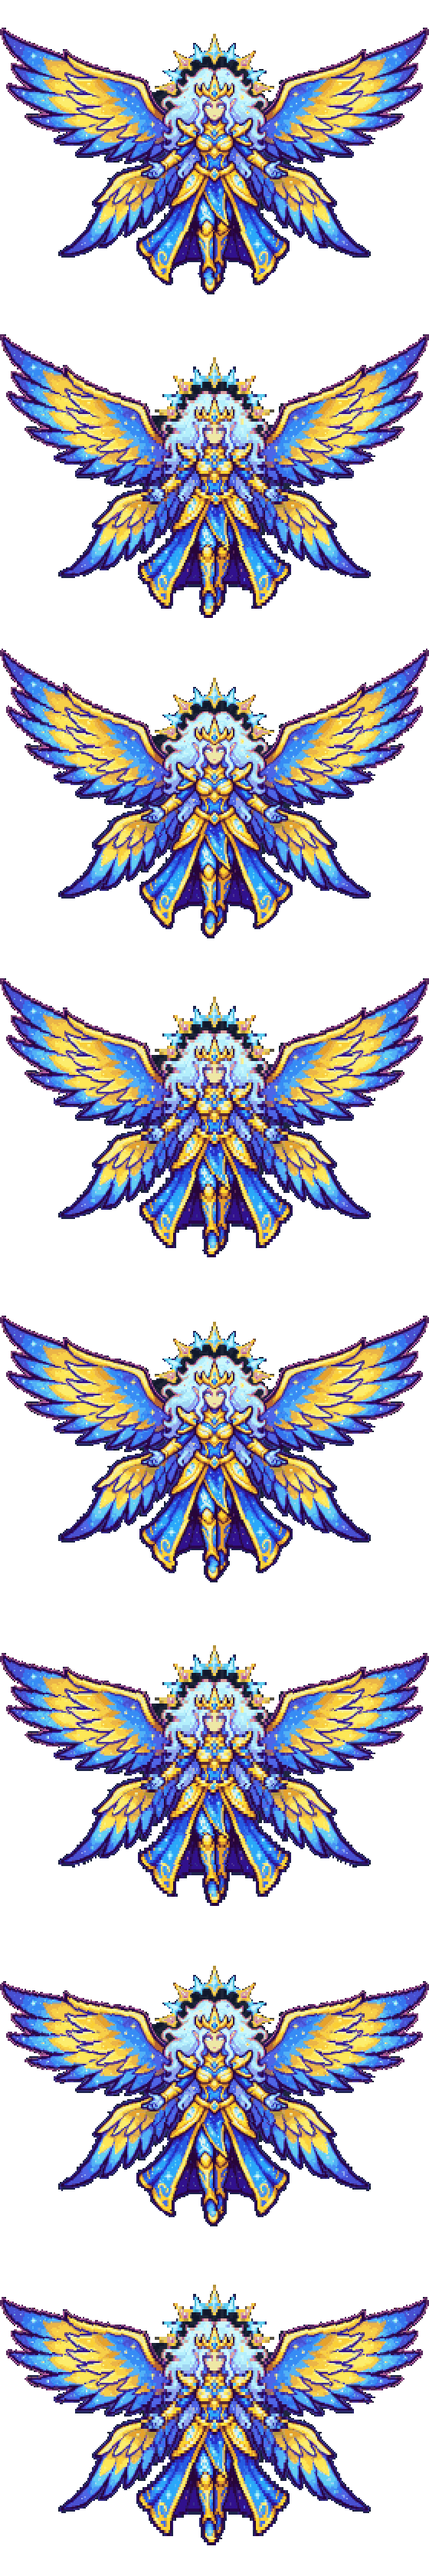
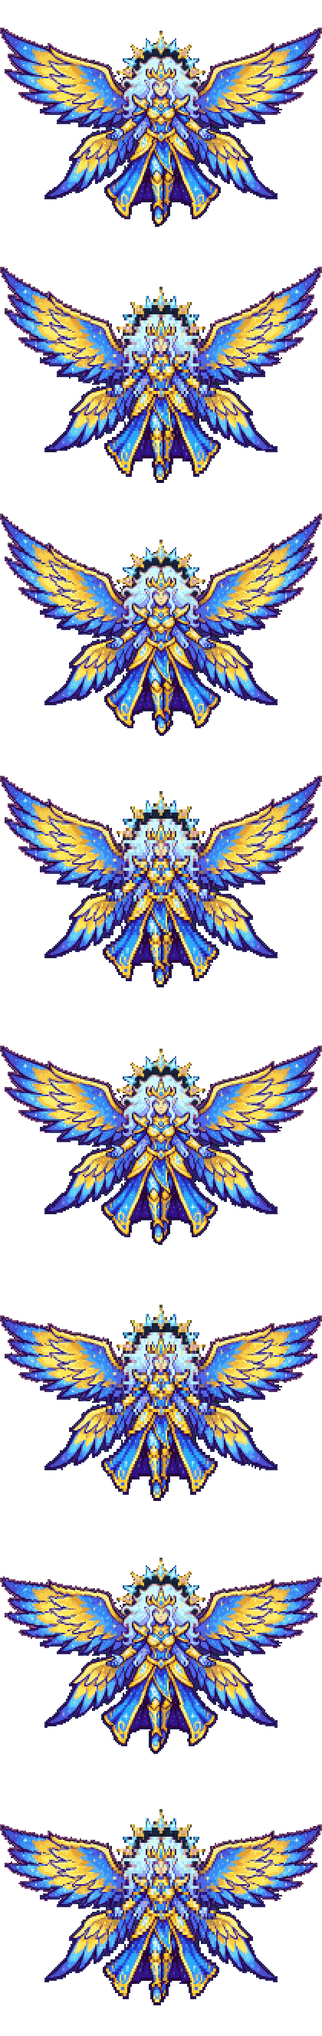
Smaller boss, remove floater above the Basket (with one-time cleanup of saved Heavens), Feather Storm attack

diff --git a/NPCs/Bosses/MotherOfTerrariaBoss.cs b/NPCs/Bosses/MotherOfTerrariaBoss.cs
@@ -20,9 +20,11 @@ namespace MotherOfTerraria.NPCs.Bosses
 	//   3. DEATH BEAM:  a thin line follows the player (the tell), then locks and a huge golden beam sweeps across.
 	//   4. FALLING STARS: seven gold stars hang high above, then drop one by one in a sweep; each leaves a burning patch
 	//                  of light on the ground, and one last star follows you.
+	//   5. FEATHER STORM: she beats her wings hard (the tell), then three spiral arms of golden feathers turn slowly one way
+	//                  and then the other.
 	//   ...then back to 1. Before each attack she moves to the next of five fixed spots around the player (see Stations): usually a slow drift, every third time a fast dash.
 	// While she is alive no other enemy may be in the Heavens (the spawner stops, and any that are left are removed).
-	// Texture: NPCs/Bosses/MotherOfTerrariaBoss.png (the owner's design, 8 frames of 560x420 made by tools/make_boss_sheet.py, Moon Lord sized: wings flap, hair and robe sway).
+	// Texture: NPCs/Bosses/MotherOfTerrariaBoss.png (the owner's design, 8 frames of 420x332 made by tools/make_boss_sheet.py, Moon Lord sized: wings flap, hair and robe sway).
 	// ALL NUMBERS BELOW ARE PLACEHOLDERS; the real balance is Phase 6.
 	// SINGLEPLAYER-ONLY: OnKill talks to the local player's Basket (see HeavenlyBasketPlayer); multiplayer needs the server to do that.
 	public class MotherOfTerrariaBoss : ModNPC
@@ -36,14 +38,14 @@ namespace MotherOfTerraria.NPCs.Bosses
 		// a slow drift, but one move in three (StationIndex divisible by 3) a fast dash with a golden after-image trail.
 		private static readonly Vector2[] Stations =
 		{
-			new Vector2(0f, -310f),      // straight above (a DASH goes here first)
-			new Vector2(-375f, -235f),   // high left
-			new Vector2(375f, -235f),    // high right
-			new Vector2(-200f, -335f),   // above, a little left
-			new Vector2(200f, -335f),    // above, a little right
+			new Vector2(0f, -235f),      // straight above (a DASH goes here first)
+			new Vector2(-280f, -175f),   // high left
+			new Vector2(280f, -175f),    // high right
+			new Vector2(-150f, -250f),   // above, a little left
+			new Vector2(150f, -250f),    // above, a little right
 		};
 		private const int StationEvery = 3;        // she moves to a new station only every this many attacks (owner: she moved too much)
-		private const float StayWithin = 80f;      // while she is this close to her station she stays put, even if the player shifts a little
+		private const float StayWithin = 60f;      // while she is this close to her station she stays put, even if the player shifts a little
 		private const float DriftSpeed = 7f;        // normal speed between attacks (pixels per tick)
 		private const float DashSpeed = 24f;        // speed of the occasional dash
 		private const float DashEase = 0.12f;       // slows her down as she arrives (bigger = later braking)
@@ -73,9 +75,19 @@ namespace MotherOfTerraria.NPCs.Bosses
 		private const int StarGap = 12;             // ticks between one star's drop and the next
 		private const int StarTrackerExtra = 40;    // the following star drops this long after the last row star
 		private const int StarsEnd = StarSpawnAt + StarHoverTicks + StarColumns * StarGap + StarTrackerExtra + 50 + 70; // + fall time + a rest
+		// FEATHER STORM: she beats her wings hard (the flap speeds up: the tell), then throws three spiral arms of golden
+		// feathers that turn slowly one way and then the other. You dodge by moving with the gaps between the arms.
+		private const int FeatherDamage = 180;
+		private const int FeatherTell = 40;
+		private const int FeatherEmits = 70;        // how many times she throws (one feather per arm each time)
+		private const int FeatherEvery = 4;         // ticks between throws
+		private const int FeatherArms = 3;
+		private const float FeatherTurn = 0.04f;    // radians the spiral turns per throw (about 0.6 radians a second)
+		private const float FeatherStartSpeed = 5f;
+		private const int FeatherEnd = FeatherTell + FeatherEmits * FeatherEvery + 110;  // + time for the last feathers to clear and a rest
 		private const int LaserEnd = BeamStart + GoldenDeathray.TellTicks + GoldenDeathray.BeamTicks + 50;
 
-		private const int AttackCount = 4;
+		private const int AttackCount = 5;
 
 		private enum Attack
 		{
@@ -83,6 +95,7 @@ namespace MotherOfTerraria.NPCs.Bosses
 			SpearBurst = 1,
 			DeathBeam = 2,
 			FallingStars = 3,
+			FeatherStorm = 4,
 		}
 
 		private Attack CurrentAttack
@@ -108,8 +121,8 @@ namespace MotherOfTerraria.NPCs.Bosses
 
 		public override void SetDefaults()
 		{
-			NPC.width = 175;         // her body (the wings are scenery, not a hitbox); the 560x420 picture is centred on it
-			NPC.height = 280;
+			NPC.width = 130;         // her body (the wings are scenery, not a hitbox); the 420x332 picture is centred on it
+			NPC.height = 210;
 			NPC.damage = 200;        // contact damage (placeholder)
 			NPC.defense = 100;       // placeholder
 			NPC.lifeMax = 600000;    // placeholder, doubled by the owner on 2026-10-24 (Phase 6 balances it)
@@ -157,7 +170,8 @@ namespace MotherOfTerraria.NPCs.Bosses
 		// Plays the wing-beat animation on a loop.
 		public override void FindFrame(int frameHeight)
 		{
-			NPC.frameCounter++;
+			bool beatingHard = CurrentAttack == Attack.FeatherStorm && Timer < FeatherTell + 30; // the wings beat twice as fast before the storm
+			NPC.frameCounter += beatingHard ? 2 : 1;
 			NPC.frame.Y = (int)(NPC.frameCounter / TicksPerFrame % FrameCount) * frameHeight;
 		}
 
@@ -206,6 +220,9 @@ namespace MotherOfTerraria.NPCs.Bosses
 					break;
 				case Attack.FallingStars:
 					DoFallingStars(target);
+					break;
+				case Attack.FeatherStorm:
+					DoFeatherStorm();
 					break;
 			}
 		}
@@ -337,6 +354,50 @@ namespace MotherOfTerraria.NPCs.Bosses
 				}
 			}
 			if (Timer >= StarsEnd)
+			{
+				NextAttack();
+			}
+		}
+
+		// The spiral: every FeatherEvery ticks one feather per arm leaves her, and the whole pattern turns by FeatherTurn.
+		// It turns one way for the first half and the other way for the second half.
+		private void DoFeatherStorm()
+		{
+			if (Timer > 0 && Timer < FeatherTell)
+			{
+				GatherLight(1.2f);
+				// Dust bursts off the wing tips: the wings are beating hard.
+				for (int side = -1; side <= 1; side += 2)
+				{
+					Dust dust = Dust.NewDustPerfect(NPC.Center + new Vector2(side * Main.rand.NextFloat(120f, 200f), Main.rand.NextFloat(-90f, 40f)),
+						DustID.GoldCoin, new Vector2(side * 2f, 1f), 0, default, 1.3f);
+					dust.noGravity = true;
+				}
+			}
+
+			int throwIndex = ((int)Timer - FeatherTell) / FeatherEvery;
+			if (Timer >= FeatherTell && (Timer - FeatherTell) % FeatherEvery == 0 && throwIndex < FeatherEmits)
+			{
+				if (throwIndex == 0)
+				{
+					SoundEngine.PlaySound(SoundID.Item119, NPC.Center);
+				}
+				if (Main.netMode != NetmodeID.MultiplayerClient)
+				{
+					// Where the pattern points now: the sum of all turns so far (forward in the first half, then back).
+					int half = FeatherEmits / 2;
+					float angle = throwIndex < half ? throwIndex * FeatherTurn : (half - (throwIndex - half)) * FeatherTurn;
+					angle += MathHelper.PiOver2 * 0.5f; // the first throw does not start at a round angle
+					int damage = NPC.GetAttackDamage_ForProjectiles(FeatherDamage, FeatherDamage * 0.8f);
+					for (int arm = 0; arm < FeatherArms; arm++)
+					{
+						float a = angle + arm * MathHelper.TwoPi / FeatherArms;
+						Projectile.NewProjectile(NPC.GetSource_FromAI(), NPC.Center, a.ToRotationVector2() * FeatherStartSpeed,
+							ModContent.ProjectileType<GoldenFeather>(), damage, 0f, Main.myPlayer);
+					}
+				}
+			}
+			if (Timer >= FeatherEnd)
 			{
 				NextAttack();
 			}

diff --git a/Projectiles/GoldenFeather.cs b/Projectiles/GoldenFeather.cs
@@ -1,0 +1,58 @@
+using Microsoft.Xna.Framework;
+using Terraria;
+using Terraria.ID;
+using Terraria.ModLoader;
+
+namespace MotherOfTerraria.Projectiles
+{
+	// A feather from the Mother of Terraria's FEATHER STORM. It flies straight, starting slowly and speeding up a little,
+	// passes through walls and islands (it is a bullet pattern, not a physical object), and fades after a few seconds.
+	// The storm is made of many of them thrown from a turning spiral, so the pattern is what you dodge.
+	// Texture: Projectiles/GoldenFeather.png (PLACEHOLDER, 16x44, pointing UP; made by tools/make_feather.py).
+	// ALL NUMBERS ARE PLACEHOLDERS (Phase 6 balances them).
+	public class GoldenFeather : ModProjectile
+	{
+		private const float Acceleration = 1.012f;  // speed multiplier per tick, until MaxSpeed
+		private const float MaxSpeed = 11f;
+
+		public override void SetDefaults()
+		{
+			Projectile.width = 14;
+			Projectile.height = 14;
+			Projectile.hostile = true;
+			Projectile.friendly = false;
+			Projectile.penetrate = -1;
+			Projectile.tileCollide = false;
+			Projectile.ignoreWater = true;
+			Projectile.timeLeft = 420;
+			Projectile.aiStyle = -1;
+		}
+
+		public override void AI()
+		{
+			float speed = Projectile.velocity.Length();
+			if (speed < MaxSpeed)
+			{
+				Projectile.velocity *= Acceleration;
+			}
+			Projectile.rotation = Projectile.velocity.ToRotation() + MathHelper.PiOver2;
+			Lighting.AddLight(Projectile.Center, 0.5f, 0.42f, 0.15f);
+			if (Main.rand.NextBool(6))
+			{
+				Dust dust = Dust.NewDustPerfect(Projectile.Center, DustID.GoldCoin, Projectile.velocity * -0.05f, 0, default, 0.9f);
+				dust.noGravity = true;
+			}
+		}
+
+		// A long thin shape: check a short line along the feather instead of the 14x14 box.
+		public override bool? Colliding(Rectangle projHitbox, Rectangle targetHitbox)
+		{
+			Vector2 direction = Projectile.velocity.SafeNormalize(Vector2.UnitY);
+			float unused = 0f;
+			return Collision.CheckAABBvLineCollision(targetHitbox.TopLeft(), targetHitbox.Size(),
+				Projectile.Center - direction * 14f, Projectile.Center + direction * 14f, 10f, ref unused);
+		}
+
+		public override Color? GetAlpha(Color lightColor) => Color.White; // glows: ignores the room's darkness
+	}
+}

diff --git a/Systems/HeavensLegacyCleanup.cs b/Systems/HeavensLegacyCleanup.cs
@@ -1,0 +1,60 @@
+using Microsoft.Xna.Framework;
+using SubworldLibrary;
+using MotherOfTerraria.Subworlds;
+using Terraria;
+using Terraria.ModLoader;
+using Terraria.ModLoader.IO;
+
+namespace MotherOfTerraria.Systems
+{
+	// The Heavens is saved with the world now, so a change to the terrain code does not reach a Heavens that was already saved.
+	// This removes, ONCE per saved Heavens, the small floating island that used to hang above the Heavenly Basket
+	// (removed from the terrain code at the owner's request, 2026-10-24). A brand-new Heavens never has it, and the
+	// clean-up there changes nothing. The "done" flag is saved with the Heavens so it never runs twice
+	// (so anything the player builds there later is safe).
+	public class HeavensLegacyCleanup : ModSystem
+	{
+		// Tile rectangle that held the island, its trees, flowers and vines (the Basket's island is far below it).
+		private static readonly Rectangle OldFloater = new Rectangle(300, 105, 61, 71);
+
+		private bool floaterRemoved;
+
+		public override void OnWorldLoad()
+		{
+			floaterRemoved = false;
+		}
+
+		public override void SaveWorldData(TagCompound tag)
+		{
+			if (floaterRemoved)
+			{
+				tag["floaterRemoved"] = true;
+			}
+		}
+
+		public override void LoadWorldData(TagCompound tag)
+		{
+			floaterRemoved = tag.GetBool("floaterRemoved");
+		}
+
+		// Runs a moment after the world has finished loading (so LoadWorldData has already run).
+		public override void PostUpdateEverything()
+		{
+			if (floaterRemoved || Main.netMode == Terraria.ID.NetmodeID.MultiplayerClient || !SubworldSystem.IsActive<HeavensSubworld>())
+			{
+				return;
+			}
+			floaterRemoved = true;
+			for (int i = OldFloater.Left; i < OldFloater.Right; i++)
+			{
+				for (int j = OldFloater.Top; j < OldFloater.Bottom; j++)
+				{
+					if (WorldGen.InWorld(i, j, 2))
+					{
+						Main.tile[i, j].ClearTile();
+					}
+				}
+			}
+		}
+	}
+}

diff --git a/tools/make_feather.py b/tools/make_feather.py
@@ -1,0 +1,16 @@
+#!/usr/bin/env python3
+"""Makes the PLACEHOLDER feather sprite for the Mother of Terraria's Feather Storm (Projectiles/GoldenFeather.png, 16x44).
+A golden quill with pale-gold vanes and a blue tip, pointing UP (the projectile code turns it to face its travel direction).
+Not from the owner's design (the design sheet has no feather): replace with real art later, same size or update
+GoldenFeather.cs. Needs ImageMagick. Run from the project folder: python3 tools/make_feather.py"""
+import subprocess
+
+subprocess.check_call([
+    "magick", "-size", "16x44", "xc:none", "-filter", "point",
+    "-stroke", "#8a6410", "-strokewidth", "1",
+    "-fill", "#ffe9a0", "-draw", "polygon 8,1 14,16 13,34 8,43 3,34 2,16",
+    "-stroke", "none", "-fill", "#7fc8ff", "-draw", "polygon 8,1 11,10 8,14 5,10",
+    "-fill", "#f2c230", "-draw", "rectangle 7,6 8,43",
+    "-fill", "#fff6d0", "-draw", "polygon 4,18 7,16 7,30 4,28 ",
+    "-colors", "12", "+dither", "Projectiles/GoldenFeather.png"])
+print("wrote Projectiles/GoldenFeather.png")

diff --git a/tools/make_boss_sheet.py b/tools/make_boss_sheet.py
@@ -22,8 +22,8 @@ import numpy as np
 SRC = "DesignRefs/boss_design.jpg"
 OUT = "NPCs/Bosses/MotherOfTerrariaBoss.png"
 FRAMES = 8
-WIDTH = 320          # width of the picture before enlarging (one "art pixel" is 1 pixel at this size)
-UPSCALE = 2          # every art pixel is then made 2x2 real pixels (crisp, no blur): the in-game frame is picture width * 2 (about 560 px)
+WIDTH = 240          # width of the picture before enlarging (one "art pixel" is 1 pixel at this size)
+UPSCALE = 2          # every art pixel is then made 2x2 real pixels (crisp, no blur): the in-game frame is picture width * 2 (about 420 px)
 PAD = 18             # empty rows above and below so flapping wings are never cut off
 COLOURS = 56         # palette size
 BG_MAX = 58          # a pixel whose brightest channel is below this is "background" (if it touches the edge)

diff --git a/Common/HeavenlyBasketPlayer.cs b/Common/HeavenlyBasketPlayer.cs
@@ -158,7 +158,7 @@ namespace MotherOfTerraria.Common
 		private void SpawnBoss()
 		{
 			summoning = false;
-			Vector2 spawn = FindBasketTop() - new Vector2(0f, 330f);
+			Vector2 spawn = FindBasketTop() - new Vector2(0f, 250f);
 			NPC.NewNPC(Player.GetSource_Misc("MotherOfTerraria:Basket"), (int)spawn.X, (int)spawn.Y, ModContent.NPCType<MotherOfTerrariaBoss>());
 			SoundEngine.PlaySound(SoundID.Roar, Player.Center);
 		}

diff --git a/Subworlds/HeavensTerrainPass.cs b/Subworlds/HeavensTerrainPass.cs
@@ -59,7 +59,7 @@ namespace MotherOfTerraria.Subworlds
 		{
 			new(60, 165, 26, 10, 2),
 			new(610, 145, 32, 12, 2),
-			new(330, 150, 22, 8, 2),
+			// (the floater at x 330 above the Basket was REMOVED at the owner's request, 2026-10-24)
 			new(425, 178, 16, 7, 1),
 		};
 

diff --git a/PROGRESS.md b/PROGRESS.md
@@ -160,7 +160,15 @@ Owner picked it from the idea list (next: Feather Storm, Halo Rings, then stage 
 - Not done on purpose: saving mid-fight (the boss and the Basket's fight state are not saved), and no reset button for the Heavens. Ask the owner if one is wanted.
 - Things to confirm: build in the Heavens, leave, return: it is still there; the Basket still holds its crystals; the enemies still spawn as normal.
 
+### 2026-10-24 (later): smaller boss, land removed, Feather Storm (BUILT, NOT YET TESTED)
+Owner: saving the Heavens works ("good job"); make the boss smaller; continue with attacks; remove the piece of land above the Basket.
+- Smaller boss: WIDTH 320 -> 240 in tools/make_boss_sheet.py (UPSCALE still 2): frames 420x332 (about 26 x 21 tiles), hitbox 130x210, stations pulled in to 75% (straight above -235, high left/right +-280,-175, above-left/right +-150,-250), dead zone 60 px, spawn 250 px above the Basket.
+- Land above the Basket: I took it to be the small floating island at x 330, y 150 (the "Floaters" entry new(330,150,22,8,2)); removed from HeavensTerrainPass (a comment marks the spot). If the owner meant a different piece (the floating rock at x 375, y 190, or the one at x 300, y 88), say so. Because the Heavens is saved now, an already-saved Heavens would keep the island, so Systems/HeavensLegacyCleanup.cs clears its rectangle (tiles x 300-360, y 105-175) ONCE per saved Heavens (a flag saved with it); new Heavens worlds never have it.
+- NEW ATTACK 5: FEATHER STORM (boss class: FeatherDamage 180, FeatherTell 40, FeatherEmits 70, FeatherEvery 4, FeatherArms 3, FeatherTurn 0.04). The wings beat twice as fast for the tell, with gold dust at the wing tips; then every 4 ticks she throws one feather per arm (3 arms, 120 degrees apart) and the whole spiral turns slowly one way for the first half and back the other way for the second half. Feathers (Projectiles/GoldenFeather.cs, placeholder art Projectiles/GoldenFeather.png made by tools/make_feather.py) start slow (5) and speed up to 11, pass through walls, last 7 s. The cycle is now fan, burst, beam, stars, feathers.
+- Next planned (owner liked them): Halo Rings, then stage 2 (Star Constellation, Judgment Mark, Protective Barrier; Healing Orbs and Guardians optional). The stage 2 trigger (suggested: 50% health) still needs the owner's OK.
+
 ## Not yet tested in-game
+0m. The smaller boss; the island above the Basket is gone (try both a NEW world and the already-saved one); Feather Storm: readable tell, fair gaps, spiral turns back.
 0l. Blocks placed in the Heavens survive leaving and returning.
 0k. Her size after the second shrink.
 0j. She moves much less.

diff --git a/ASSETS.md b/ASSETS.md
@@ -39,10 +39,11 @@ These are not files in the mod; the code uses the game's own graphics for now. E
 | Vanilla loading screen text | Subworlds/HeavensTerrainPass.cs | Optional custom loading screen, Phase 2C. |
 | Gold dust when hitting the statue | Tiles/GoldenStatue.cs | Custom dust, optional. |
 
-| Mother of Terraria sprite | NPCs/Bosses/MotherOfTerrariaBoss.png | OWNER'S DESIGN (2026-10-24), made game-ready by tools/make_boss_sheet.py: 8 frames of 560x420 (enlarged 2x with crisp pixels) stacked vertically, a small palette, animated by warping the one picture (wings flap, hair and robe sway). Not hand-drawn frames: the owner may send real ones (same size, 8 frames, or update the constants in MotherOfTerrariaBoss.cs). Hitbox is her body, 175x280, centred on the picture. |
+| Mother of Terraria sprite | NPCs/Bosses/MotherOfTerrariaBoss.png | OWNER'S DESIGN (2026-10-24), made game-ready by tools/make_boss_sheet.py: 8 frames of 420x332 (enlarged 2x with crisp pixels) stacked vertically, a small palette, animated by warping the one picture (wings flap, hair and robe sway). Not hand-drawn frames: the owner may send real ones (same size, 8 frames, or update the constants in MotherOfTerrariaBoss.cs). Hitbox is her body, 130x210, centred on the picture. |
 | Celestial Spear (boss projectile) | Projectiles/CelestialSpear.png | OWNER'S DESIGN (2026-10-24), 42x104, pointing up, made by tools/make_celestial_spear.py from DesignRefs/boss_spear.png. |
 | Gold Crystal Star (falling star projectile) | Projectiles/GoldCrystalStar.png | OWNER'S DESIGN (2026-10-24), 51x72, comet trail streams up, made by tools/make_gold_star.py from DesignRefs/boss_star.png. |
 | Starfire patch (burning ground left by a star) | Projectiles/StarfirePatch.cs | Drawn entirely in code, no file. Real art or a flame sprite could replace it in Phase 7. |
+| Golden Feather (Feather Storm projectile) | Projectiles/GoldenFeather.png | PLACEHOLDER (2026-10-24): 16x44, pointing up, a gold quill with a blue tip, made by tools/make_feather.py. The owner's design sheet has no feather: needs the owner's art. |
 | Golden Deathray (the boss laser) | Projectiles/GoldenDeathray.cs | Drawn entirely in code from the game's white pixel, no file. Real art (a textured beam, a beam start/end) can replace it in Phase 7. |
 | Debug Boss Summoner icon | Items/Debug/DebugBossSummoner.png | TESTING ONLY, copy of the starter kit icon; deleted before release. |
 
